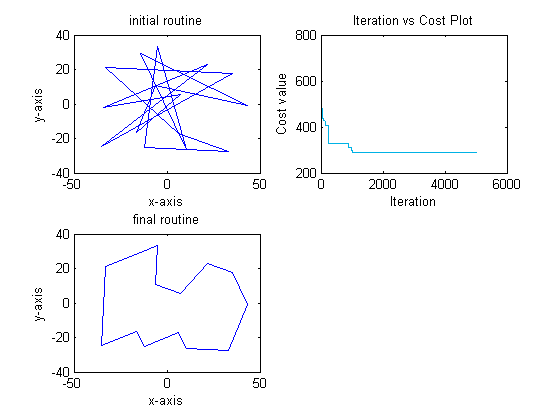
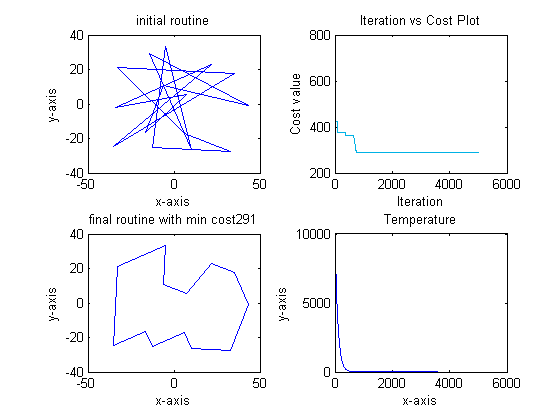
update 10/7/2014
update results

diff --git a/travellingSalesmanRunner.m b/travellingSalesmanRunner.m
@@ -33,14 +33,16 @@ minCost=cost(s,D);
 minTour=s;
 candidateNum=3;
 
-T=0.14;
-beta=0.997;
-tempThreshold=0.1;
+%T=0.14;
+T=9999;
+% beta=0.997;
+beta=0.99;
+%tempThreshold=0.1;
 num_evaluations=1;
 minCostArray=zeros(max_evaluations,1);
 outputArr=zeros(max_evaluations,2);
 temperatureArr=zeros(max_evaluations,1);
-while (num_evaluations<max_evaluations+1&&T>tempThreshold)
+while (num_evaluations<max_evaluations+1)
     
     candidate=zeros(size(s,1),size(s,2),candidateNum);
     candidateCost=zeros(1,candidateNum);
@@ -60,15 +62,21 @@ while (num_evaluations<max_evaluations+1&&T>tempThreshold)
         if cost(s_next,D)<minCost
             minCost=cost(s_next,D);
             minTour=s_next;
-        
         end
     elseif (expCoinFlip(s,s_next,D,T)==1)
         s=s_next;
     end
+    outputArr(num_evaluations,:)=[minCandidateStartPos,minCandidateStringLength];
+%     disp ('================')
+%     disp ('start position')
+%     disp (minCandidateStartPos)
+%     disp ('sequence length')
+%     disp (minCandidateStringLength)
+%     disp (strcat('state',int2str(num_evaluations)));
+%     disp (s)
+%     disp ('================')
     T=newTemperature(T,beta);
     temperatureArr(num_evaluations,1)=T;
-    outputArr(num_evaluations,1)=minCandidateStartPos;
-    outputArr(num_evaluations,2)=minCandidateStringLength;
     minCostArray(num_evaluations,1)=minCost;
     num_evaluations=num_evaluations+1;
     
@@ -85,7 +93,7 @@ ylabel('Cost value')
 % disp(s)
 subplot(2,2,3);
 plot(s(:,2),s(:,3));
-title('final routine')
+title(strcat('final routine with min cost',int2str(min(minCostArray))));
 xlabel('x-axis')
 ylabel('y-axis')
 
